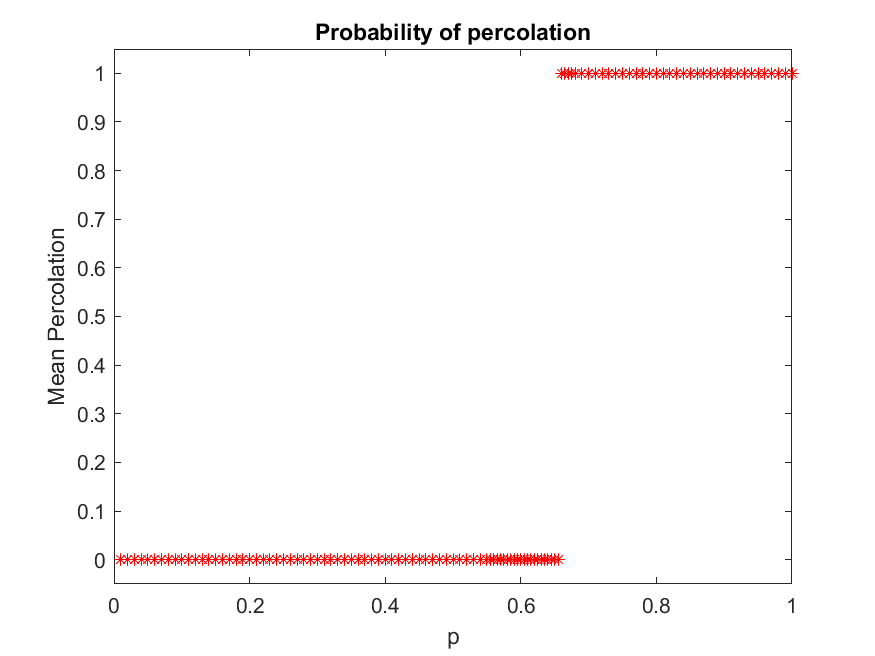
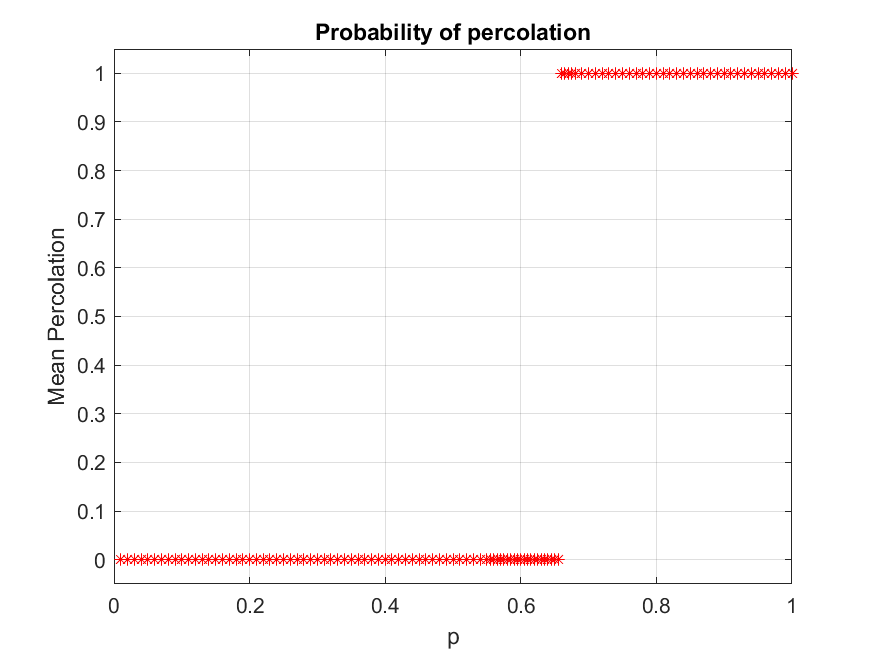
adding smaller, bigger_neighbours testing function and counter process one, modification of documentation in all other functions

diff --git a/testing/test_smaller_neighbours.m b/testing/test_smaller_neighbours.m
@@ -1,0 +1,27 @@
+function test_smaller_neighbours()
+% This test function considers 3 examples label matrices and by applying
+% the smaller_neighbours function, check its validity
+%first test is for smaller neighbours, the second for only bigger
+%neighbours and the last one for mixed (with 0) neighbours
+
+%Test 1 smaller neighbours
+label = [1 2 0; 
+         2 3 1;
+         0 2 5];
+expected_output = [1 1 0; 1 1 1; 0 1 5];
+assert(isequal(smaller_neighbours(label, 2, 2), expected_output), 'Test failed: label matrix not as expected');
+
+%Test 2 bigger neighbours
+label = [1 6 0; 
+         4 3 5;
+         0 4 5];
+expected_output = [1 6 0; 4 3 5; 0 4 5];
+assert(isequal(smaller_neighbours(label, 2, 2), expected_output), 'Test failed: label matrix not as expected');
+
+%Test 3 generic neighbours
+label = [1 2 0; 
+         2 3 0;
+         0 4 5];
+expected_output = [1 2 0; 2 2 0; 0 4 5];
+assert(isequal(smaller_neighbours(label, 2, 2), expected_output), 'Test failed: label matrix not as expected');
+end

diff --git a/testing/test_bigger_neighbours.m b/testing/test_bigger_neighbours.m
@@ -1,0 +1,27 @@
+function test_bigger_neighbours()
+% This test function considers 3 examples label matrices and by applying
+% the bigger_neighbours function, check its validity
+%first test is for bigger neighbours, the second for only smaller
+%neighbours and the last one for mixed (with 0) neighbours
+
+%Test 1 bigger neighbours
+label = [1 4 0; 
+         3 2 5;
+         0 5 1];
+expected_output = [1 2 0; 2 2 2; 0 2 1];
+assert(isequal(bigger_neighbours(label, 2, 2), expected_output), 'Test failed: label matrix not as expected');
+
+%Test 2 smaller neighbours
+label = [1 2 0; 
+         2 3 1;
+         0 2 5];
+expected_output = [1 2 0; 2 3 1; 0 2 5];
+assert(isequal(bigger_neighbours(label, 2, 2), expected_output), 'Test failed: label matrix not as expected');
+
+%Test 3 generic neighbours
+label = [1 2 0; 
+         2 3 0;
+         0 4 5];
+expected_output = [1 2 0; 2 3 0; 0 3 5];
+assert(isequal(bigger_neighbours(label, 2, 2), expected_output), 'Test failed: label matrix not as expected');
+end

diff --git a/percolating/initial_mask.m b/percolating/initial_mask.m
@@ -4,18 +4,17 @@ function [mask]=initial_mask(N,M,p,s)
 %Parameters= N,M: dimensions of the matrix; p: probability of percolation;
 %            s: type of generation seed
 %return the mask with extra borders
-if 0<=p && p<=1
-else
+
+if 1<=p || p<=0
     error 'valueError: Probability must be in the [0:1] interval'
 end   
-    if N>1 && M>1
-    else 
-        error 'valueError: Both dimensions of the lattice must be > 1'
-    end    
-        rng(s); 
-        mask=rand(N,M)<p;
-              % adding extra borders for boundaries problems
-        mask = [zeros(1,size(mask,2)); mask; zeros(1,size(mask,2))]; 
-        mask = [zeros(size(mask,1),1), mask, zeros(size(mask,1),1)];
+if N<1|| M<1
+    error 'valueError: Both dimensions of the lattice must be > 1'
+end    
+rng(s); 
+mask=rand(N,M)<p;
+% adding extra borders for boundaries problems
+mask = [zeros(1,size(mask,2)); mask; zeros(1,size(mask,2))]; 
+mask = [zeros(size(mask,1),1), mask, zeros(size(mask,1),1)];
 end
         

diff --git a/testing/test_counter_process.m b/testing/test_counter_process.m
@@ -1,0 +1,23 @@
+function test_counter_process()
+%This test function consider two example matrices and by applying the 
+%counter process function check its validity 
+%the first test is a same-dimensions test
+%the second one check that the vectorial sum of the mask is equal to the
+%last non-zero counter element of the label matrix
+
+mask = [0 1 1 0 1;
+        1 0 0 1 1;
+        0 0 1 1 0;
+        1 0 1 1 1;
+        1 1 0 0 1];
+[label,mask]=counter_process(mask);
+ 
+%Test 1
+assert (size(mask,1)==size(label,1), 'Test failed: label matrix not as expected');
+assert (size(mask,2)==size(label,2), 'Test failed: label matrix not as expected');
+
+%Test 2
+expected_sum = sum(mask(:));
+nonzero_label_elements = (label(label~=0));
+assert (expected_sum == nonzero_label_elements(end,end),'Test failed: label matrix not as expected'); 
+end

diff --git a/percolating/bigger_neighbours.m b/percolating/bigger_neighbours.m
@@ -1,7 +1,7 @@
 function [label]=bigger_neighbours(label,i,j)
 %This function consider the label matrix built from counter process
 %function and analyze the non-zero neighbours of each elements. If they are
-%biggerr than the (i,j) site, connects them in a single cluster.
+%bigger than the (i,j) site, connects them in a single cluster.
 %Parameters = label: working matrix; i: row index; j: column index
 
 minimum=label(i,j);
@@ -14,7 +14,7 @@ for a=[1 -1]
     if label(i,j+a)~=0 && label(i,j+a) > minimum
        copy = label(i,j+a);
        label(i,j+a) = minimum;
-       [label]=substitute(label,copy,minimum); % double check possible neighbours connected but not yet visualized
+       [label]=substitute(label,copy,minimum); 
     end
 end                 
 end

diff --git a/plots/prob_graph.m b/plots/prob_graph.m
@@ -3,6 +3,7 @@ function [plots,prob_crit]=prob_graph()
 %probability and then perform a graph
 %Parameters= percolation: table created by simulation
 %return the graph "Probability of percolation"
+
 load('config.mat','percolation');
 data=percolation;
 p=[0.01:0.01:0.55, 0.55:0.005:0.68, 0.68:0.01:1];
@@ -14,6 +15,7 @@ ylabel('Mean Percolation')
 ylim([-0.05 1.05])
 y1=find(data==0);
 y2=find(data==1);
+grid on;
 prob_crit=(p(y1(1,end))+p(y2(1,1)))/2
 
 saveas(gcf,'././images/prob_percol.png');

diff --git a/testing/test_simulation.m b/testing/test_simulation.m
@@ -1,6 +1,6 @@
 function test_simulation()
 %This test function calls the percolation function with example inputs
-% then the first test that the percolation table is made of 0 or 1
+%the first tests that the percolation table is made of 0 or 1
 %the second one tests that the total amount of 1 are the number of
 %the table elements
 

diff --git a/percolating/smaller_neighbours.m b/percolating/smaller_neighbours.m
@@ -16,7 +16,7 @@ for a=[1 -1]
        minimum=label(i,j+a);
        copy=label(i,j);
        label(i,j)=minimum;
-       [label]=substitute(label,copy,minimum); % double check possible neighbours connected but not yet visualized
+       [label]=substitute(label,copy,minimum); 
     end
 end                 
 end

diff --git a/percolating/substitute.m b/percolating/substitute.m
@@ -4,6 +4,7 @@ function [label]=substitute(label,copy,minimum)
 %Parameters = label: initial matrix; copy: previous element value;
 %minimum: new element value
 %return the label modified, in our case with the minimum value 
+
 for j=1:size(label,2)
     for i=1:size(label,1)
         if label(i,j)==copy 

diff --git a/percolating/results.m b/percolating/results.m
@@ -20,5 +20,4 @@ else
      last=('The system is percolated');
      perc=1;
 end
-
 end
